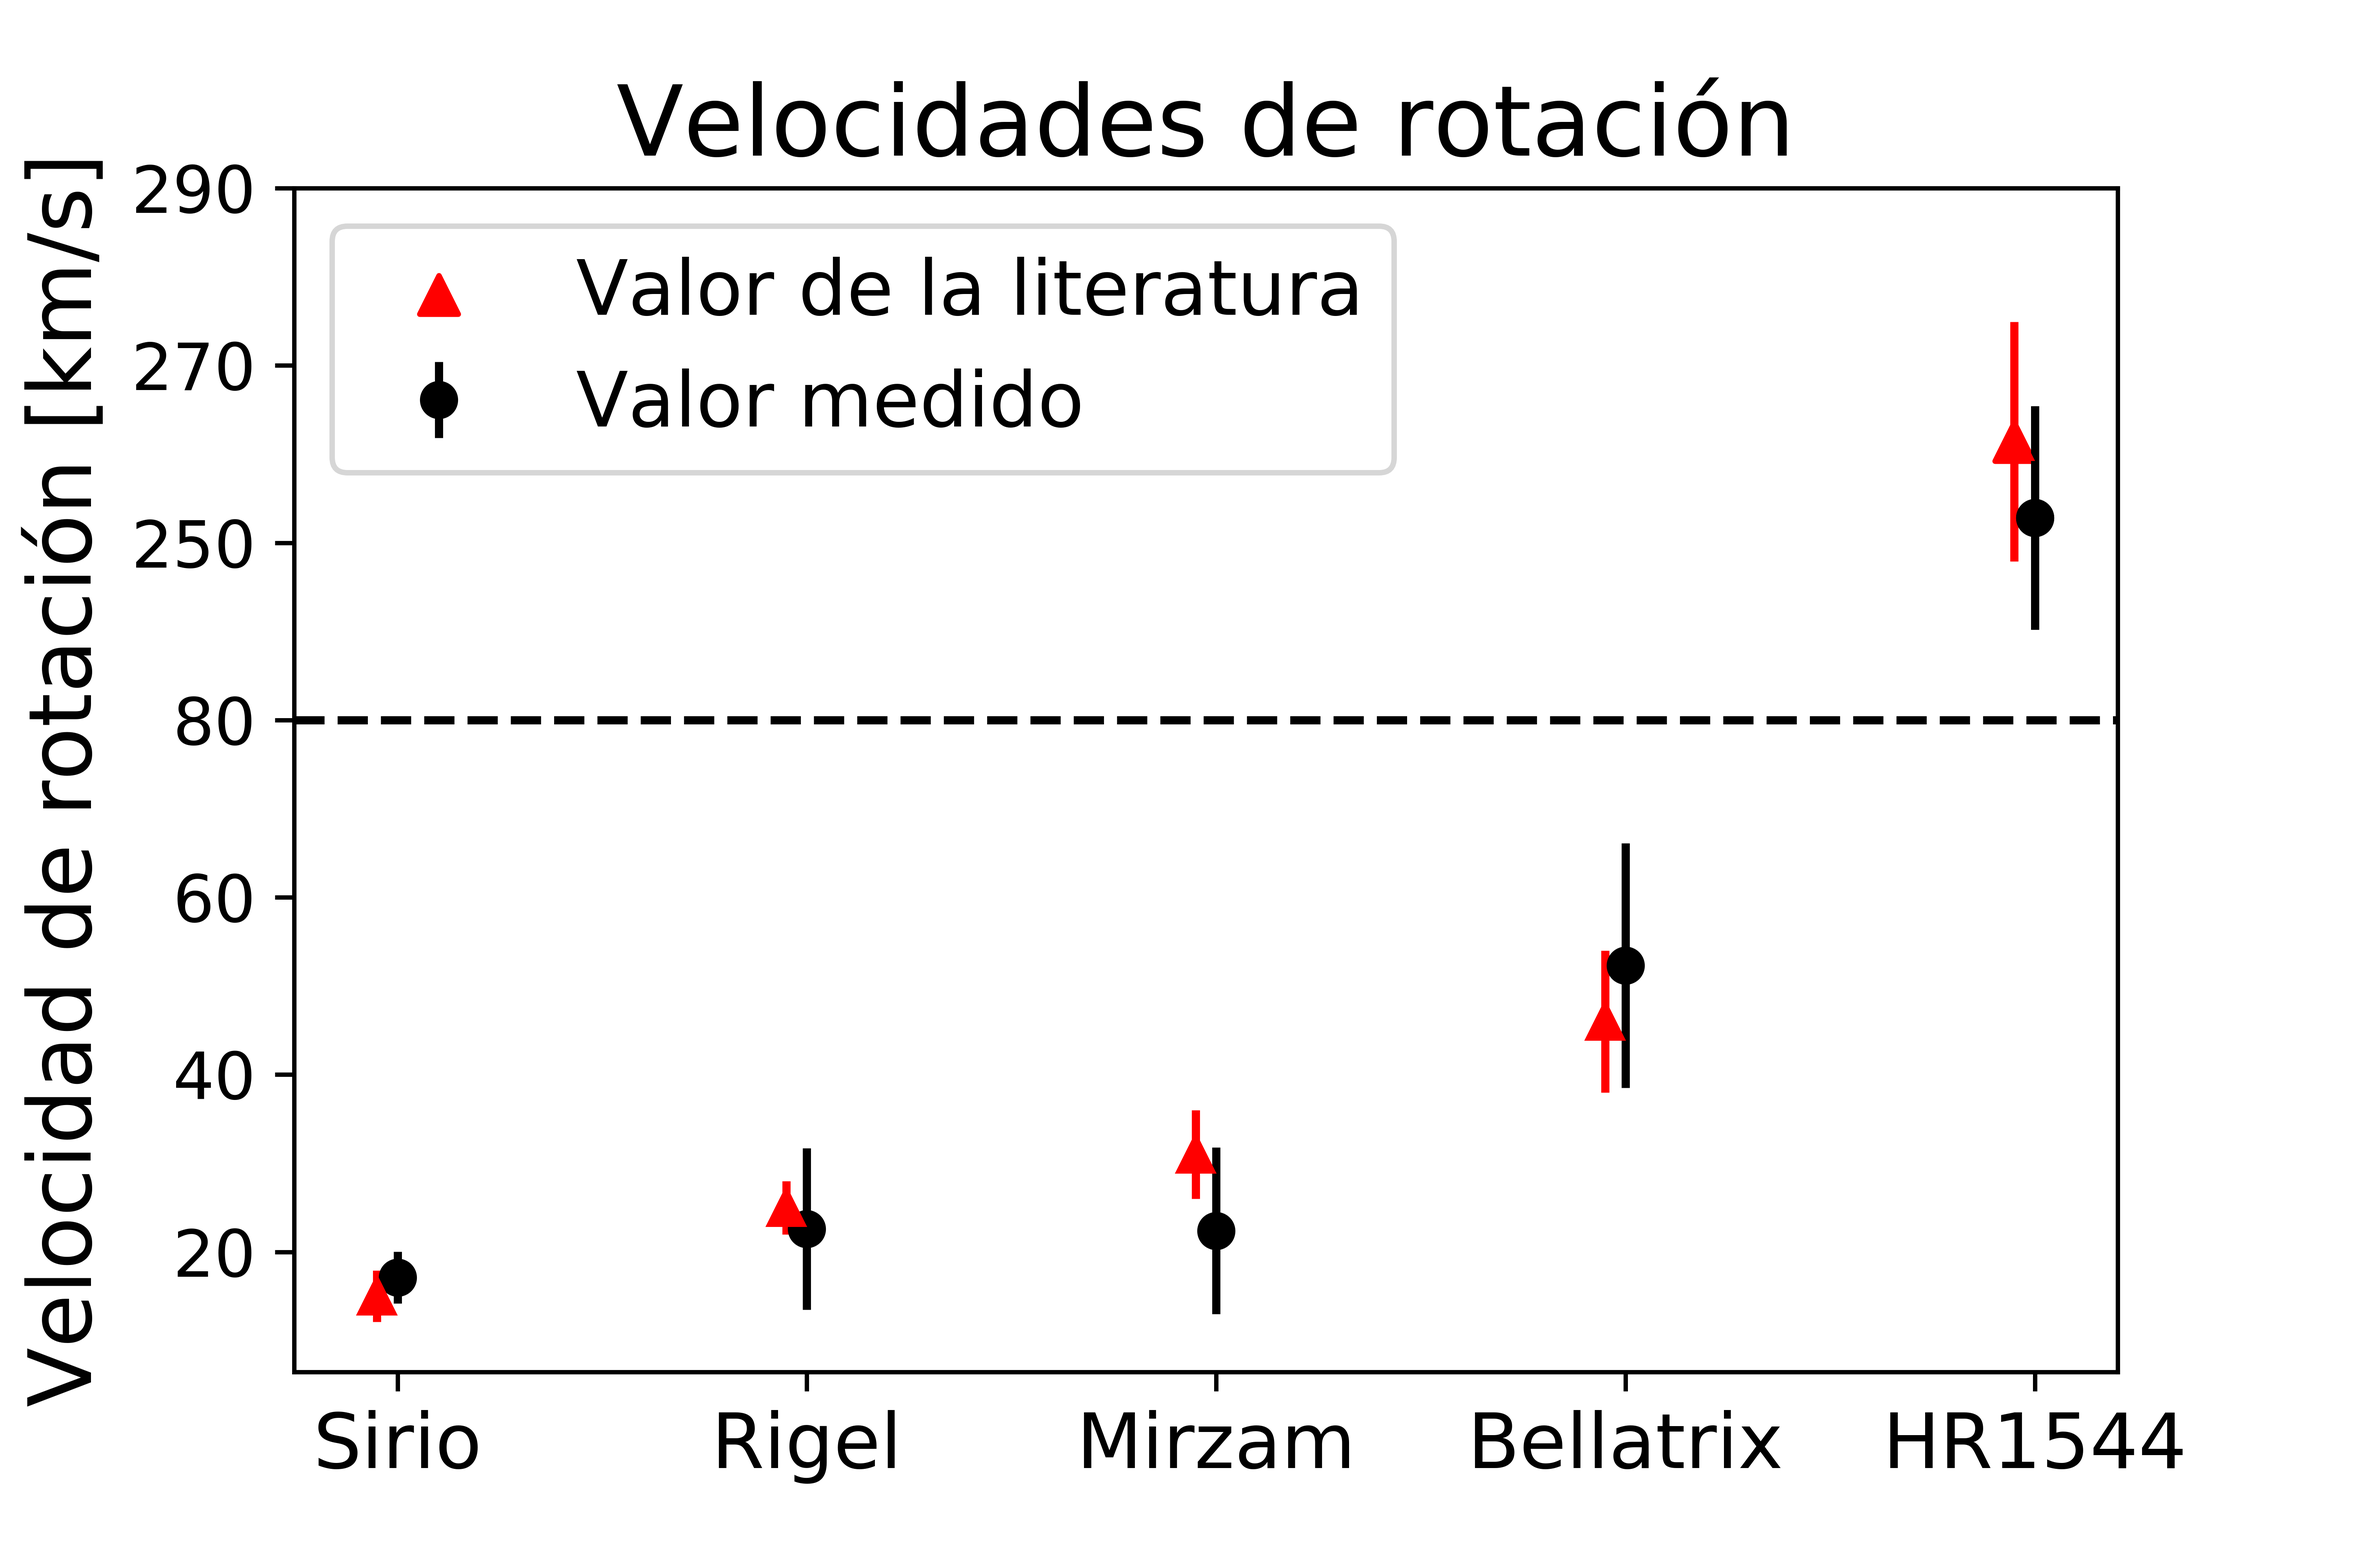
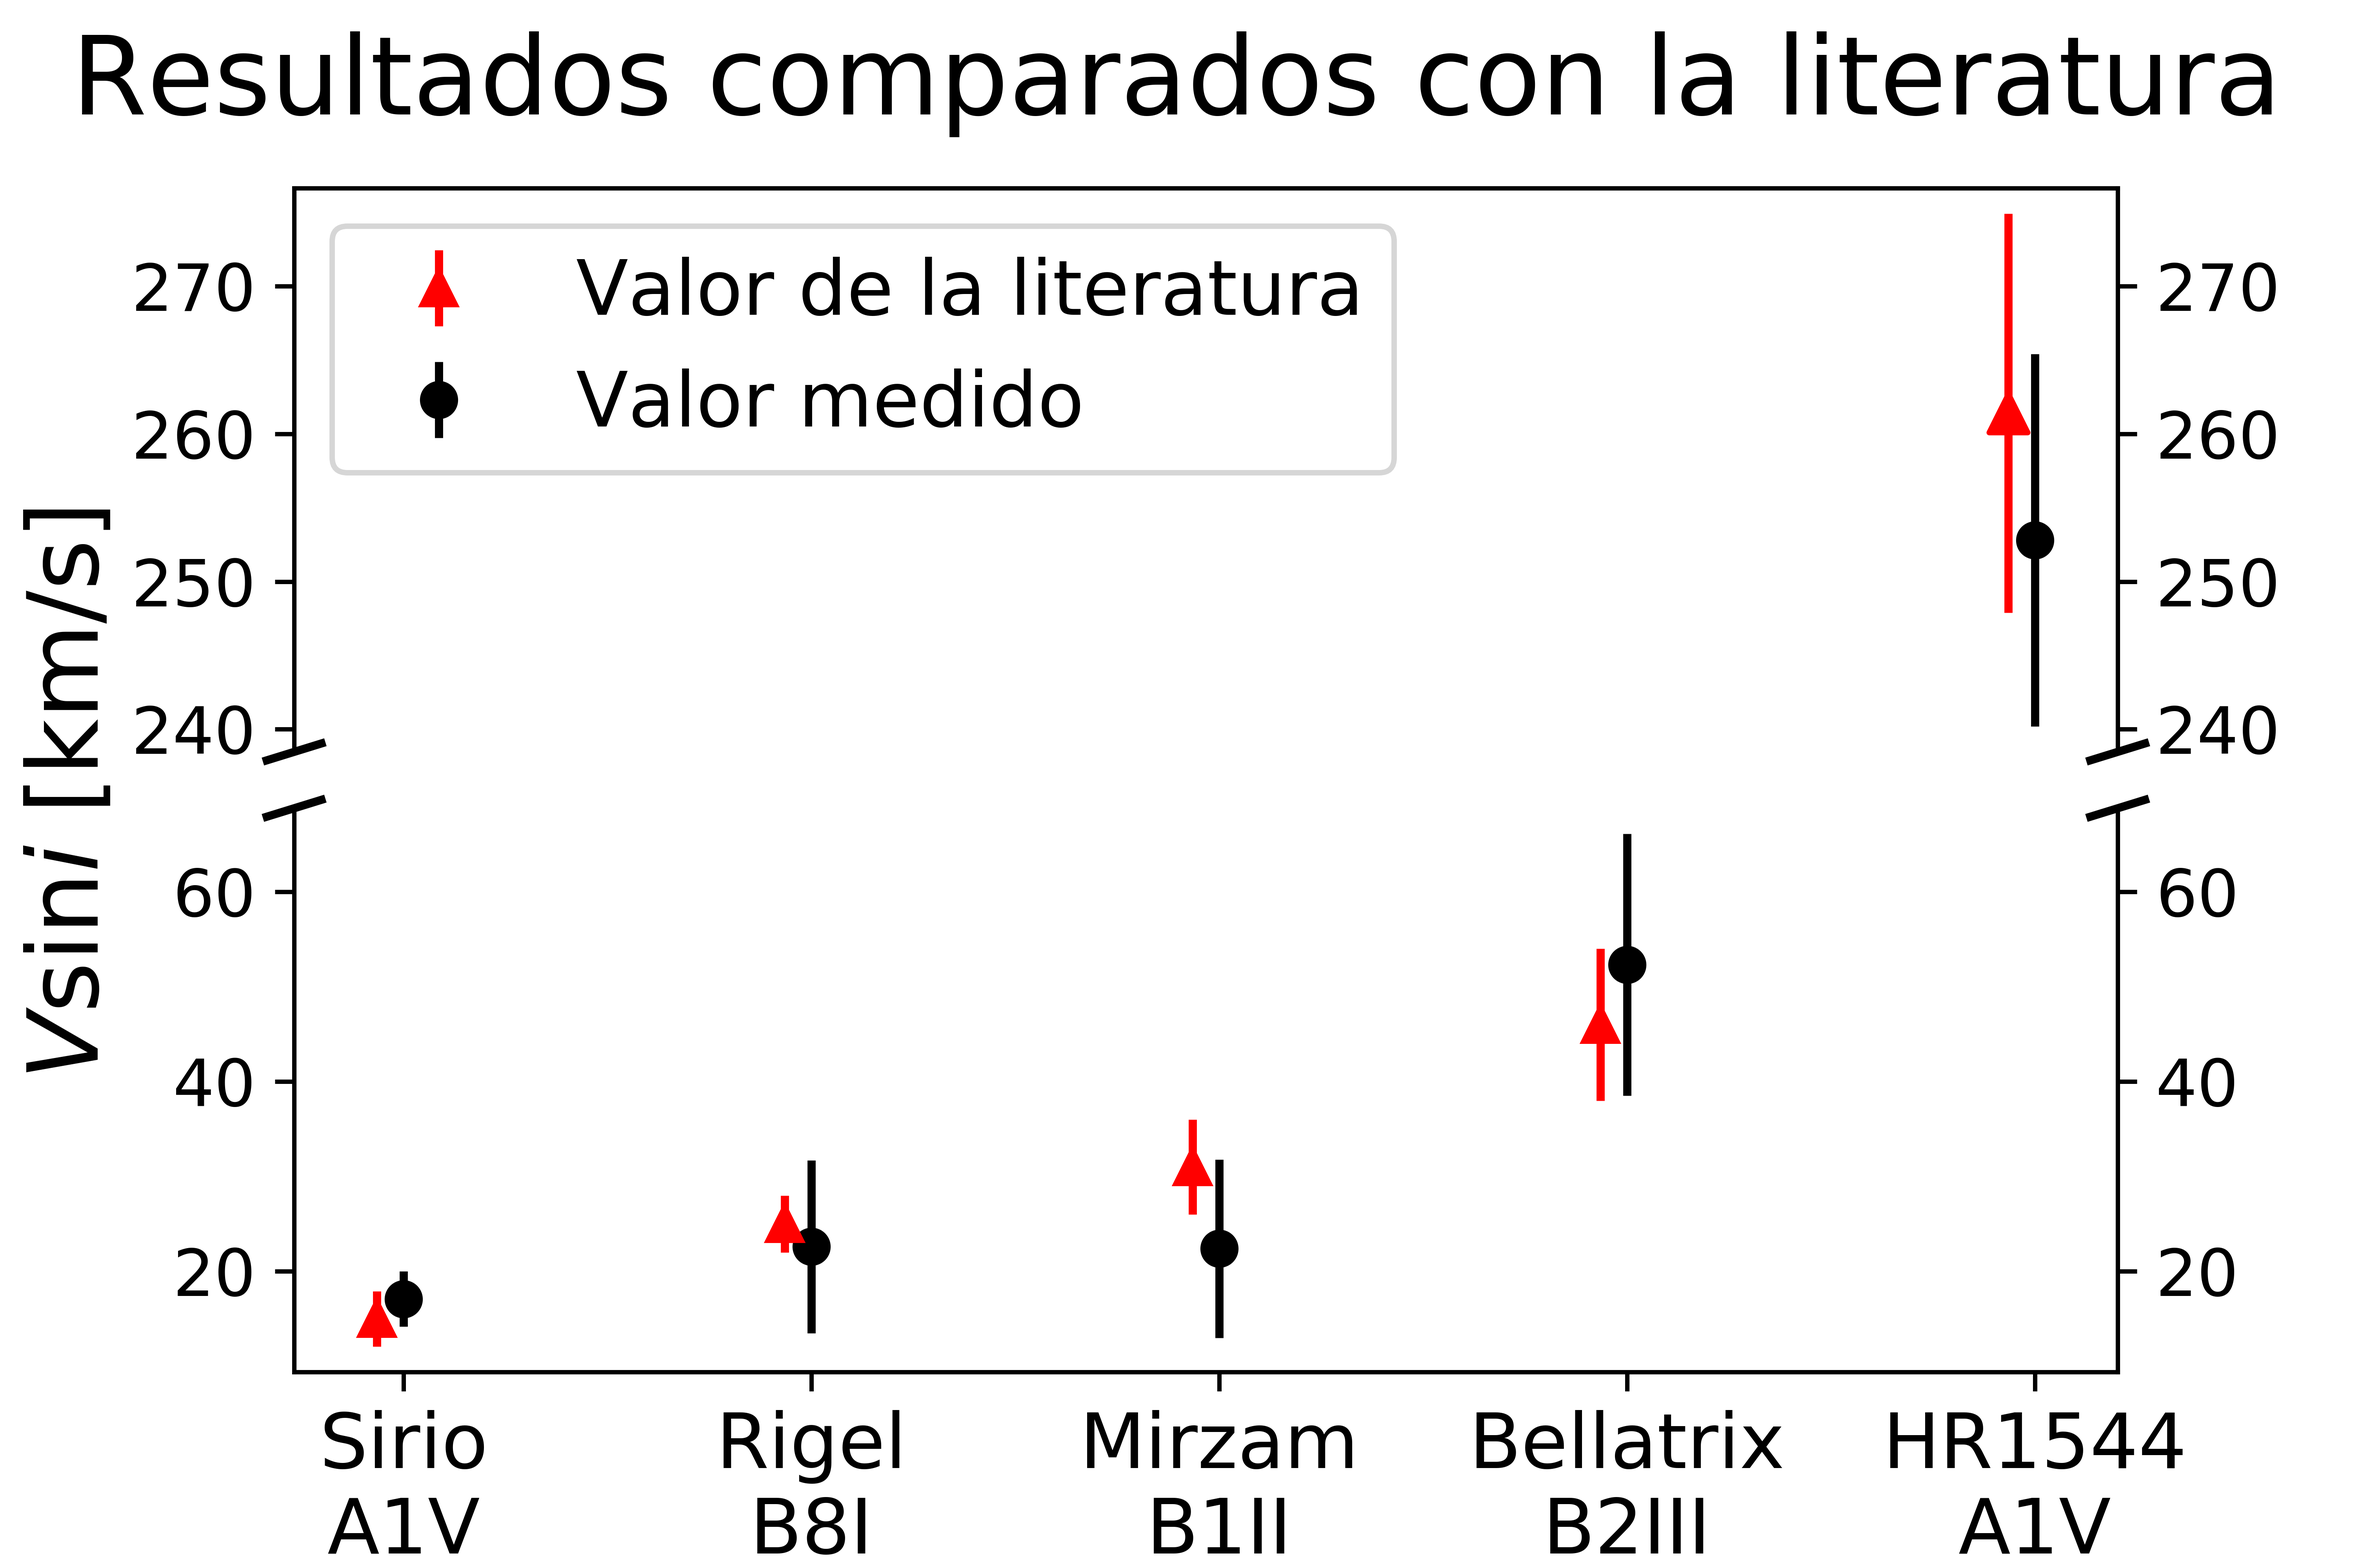
versiones para el poster

diff --git a/LaboratorioAvanzado/Proyecto/analisis_Espectral/metanalisis.py b/LaboratorioAvanzado/Proyecto/analisis_Espectral/metanalisis.py
@@ -42,25 +42,59 @@ plt.plot(x,m*x+b)
 plt.figure()
 xpos = np.arange(len(vReal))
 factor = 150
-vReal[4] -= factor
-vMed[4] -= factor
+#vReal[4] -= factor
+#vMed[4] -= factor
 #sigmaReal[4] /= factor
 #sigmaMed[4] /= factor
-for i, color in zip(xpos,["blue","indigo","forestgreen","teal", "k"]):
-      
-      plt.errorbar([xpos[i]],vMed[i], yerr=[sigmaMed[i]],color = 'k', fmt='o')
+espectral = ['A1V', 'B8I', 'B1II', 'B2III','A1V' ]
+f,(ax,ax2) = plt.subplots(2,1,sharex=True, facecolor='w')
+for i, color in zip(xpos[:-1],["blue","indigo","forestgreen","teal"]):
+            
+      ax2.errorbar([xpos[i]],vMed[i], yerr=[sigmaMed[i]],color = 'k', fmt='o')
 #      plt.scatter([xpos[i]], vMed[i],color = color, label = estrellas[i] + " medido")
 #      plt.scatter([xpos[i]-0.05], vReal[i], marker= '^',color = 'r', s = 50)
-      plt.errorbar([xpos[i]-0.05], vReal[i], color = 'r',yerr=[sigmaReal[i]], fmt='^')
-plt.scatter([xpos[i]-0.05], vReal[i], marker= '^',color = 'r', s = 50, label = 'Valor de la literatura')
-plt.errorbar([xpos[i]],vMed[i], yerr=[sigmaMed[i]],color = color, fmt='o', label = 'Valor medido')
-plt.xticks(xpos,estrellas,fontsize=14)
-plt.ylabel(r"Velocidad de rotación [km/s]", fontsize=16)
-plt.axhline(80,linestyle='--', color = 'black')
-plt.yticks((1+np.arange(7))*20,[20,40,60,80,100+factor,120+factor,140+factor],fontsize=12)
-plt.legend(prop={'size': 14})
-plt.title("Velocidades de rotación", fontsize=18)
-plt.savefig("resultados.png",dpi = 1000)
-#plt.yticks()
+      ax2.errorbar([xpos[i]-0.065], vReal[i], color = 'r',yerr=[sigmaReal[i]], fmt='^')
+#ax.errorbar([xpos[4]],vMed[4], yerr=[sigmaMed[4]],color = 'k', fmt='o')
+#ax.errorbar([xpos[4]-0.05], vReal[4], color = 'r',yerr=[sigmaReal[4]], fmt='^')
+ax.yaxis.set_tick_params(labelsize=12)
+ax2.yaxis.set_tick_params(labelsize=12)
+ax.scatter([xpos[4]-0.065], vReal[4], marker= '^',color = 'r', s = 50)
+ax.errorbar([xpos[4]-0.065],vReal[4], yerr=[sigmaReal[4]],color = 'r', fmt='^', label = 'Valor de la literatura')
+ax.errorbar([xpos[4]],vMed[4], yerr=[sigmaMed[4]],color = 'k', fmt='o', label = 'Valor medido')
+plt.xticks(xpos,estrellas+'\n'+espectral,fontsize=14)
+#ax.yticks(fontsize=14)
+#ax2.yticks(fontsize=14)
+plt.ylabel(r"                   $V \sin{i}$ [km/s]", fontsize=18,labelpad=10)
+
+ax.spines['bottom'].set_visible(False)
+ax2.spines['top'].set_visible(False)
+ax.xaxis.tick_top()
+ax.tick_params(labeltop='off', labelright = True)  # don't put tick labels at the top
+ax2.tick_params(labeltop='off', labelright = True)  # don't put tick labels at the top
+ax.xaxis.set_ticks_position('none') 
+ax2.yaxis.set_ticks_position('both')
+ax.yaxis.set_ticks_position('both')
+#ax2.yaxis.tick_right()
+#ax.yaxis.tick_right()
+#plt.axhline(80,linestyle='--', color = 'black')
+#plt.yticks((1+np.arange(7))*20,[20,40,60,80,100+factor,120+factor,140+factor],fontsize=12)
+ax.legend(prop={'size': 14})
+#ax.title.set_text("Velocidades de rotación")
+f.suptitle("Resultados comparados con la literatura", fontsize=19)
+f.subplots_adjust(hspace=0.1) 
+d = .015  # how big to make the diagonal lines in axes coordinates
+# arguments to pass to plot, just so we don't keep repeating them
+kwargs = dict(transform=ax.transAxes, color='k', clip_on=False)
+ax.plot((-d, +d), (-d, +d), **kwargs)        # top-left diagonal
+ax.plot((1 - d, 1 + d), (-d, +d), **kwargs)  # top-right diagonal
+
+kwargs.update(transform=ax2.transAxes)  # switch to the bottom axes
+ax2.plot((-d, +d), (1 - d, 1 + d), **kwargs)  # bottom-left diagonal
+ax2.plot((1 - d, 1 + d), (1 - d, 1 + d), **kwargs)  # bottom-right diagonals
+
+#ax2.plot((0,1 ), (1.05, 1.05 ), **kwargs)  # bottom-right diagonals
+
+f.savefig("resultados.png",dpi = 1000)
+
 
 

diff --git a/LaboratorioAvanzado/Proyecto/analisis_Espectral/mirzam.py b/LaboratorioAvanzado/Proyecto/analisis_Espectral/mirzam.py
@@ -21,9 +21,9 @@ dpi = 300
 #conv0 = 2/(y1[202]+y1[203])
 element = 'H'
 line = 4341.2 #
-line = 4861 #
+#line = 4861 #
 #line = 6564 #
-lineS = str(line)
+lineS = str(int(line))
 ii = np.where(np.logical_and(lamb<line+5,lamb>line-5))
 iii = np.where(np.logical_and(lamb<line+15,lamb>line-15))
 
@@ -77,16 +77,22 @@ funcionTestFourier = interp1d(freq,lineas,kind='quadratic')
 #plt.xlim(0,1000)
 plt.figure()
 plt.xlabel("Frecuencias [hz]", fontsize=18)
-plt.ylabel("FFT normalizada", fontsize=18)
-plt.title("FFT de H 4861 en "+star, fontsize=18)
+plt.ylabel(r"FFT de H$_{\gamma}$ en "+star, fontsize=20, labelpad=1)
+plt.yticks(fontsize=12)
+plt.xticks(fontsize=12)
+plt.title("Ceros sensibles a la interpolación", fontsize=20)
 #plt.xlim(3500,4500)
 #plt.ylim(-0.025,0.0251)
 plt.xlim(0,0.43)
 
-plt.plot(freq,np.zeros_like(freq))
-plt.plot(freq,lineas.real/np.max(lineas.real),color = 'r')
-plt.scatter(freq,lineas.real/np.max(lineas.real), color = 'orange')
-plt.plot(freqTest,funcionTestFourier(freqTest)/np.max(lineas),color = 'blue')
+
+plt.plot(freq,lineas.real/np.max(lineas.real),color = 'green', label = 'Interpolación Lineal')
+plt.scatter(freq,lineas.real/np.max(lineas.real), color = 'red', label = 'Puntos de la transformada')
+plt.plot(freqTest,funcionTestFourier(freqTest)/np.max(lineas),color = 'blue', label = 'interpolación Cuadrática')
+plt.plot(freq,np.zeros_like(freq), color = 'black')
+plt.legend(prop={'size': 13})
+plt.savefig("fft"+element+" "+lineS+'.png',dpi=dpi,bbox_inches='tight')
+
 
 A = trapz(y=linea,x=lambLinea)
 beta = 2*A/linea[lambLinea==0]/np.pi
@@ -126,13 +132,13 @@ vsini1 = 0.660/(line*ridder(funcionTestFourier,freq[0],freq[2])*10)*c*1e-4 #pare
 def PlanB(w):
     return np.trapz(y=lineas*np.cos(w*lambLinea),x=lambLinea)
 
-plt.figure()
-PlanB(freq)
-planB = np.zeros_like(freq1)
-for i in range(len(freq1)):
-    planB[i] = PlanB(freq1[i])
+#plt.figure()
+#PlanB(freq)
+#planB = np.zeros_like(freq1)
+#for i in range(len(freq1)):
+#    planB[i] = PlanB(freq1[i])
 
-plt.plot(freq,planB)
+#plt.plot(freq,planB)
 
 
 

diff --git a/LaboratorioAvanzado/Proyecto/analisis_Espectral/sirio.py b/LaboratorioAvanzado/Proyecto/analisis_Espectral/sirio.py
@@ -76,8 +76,8 @@ funcionTestFourier = interp1d(freq,lineas,kind='quadratic')
 #plt.xlim(0,1000)
 plt.figure()
 plt.xlabel(r"Frecuencias [ciclos$^{-1}$]", fontsize=18)
-plt.ylabel("FFT normalizada", fontsize=18)
-plt.title("FFT de "+element+" "+lineS+ " en "+star, fontsize=18)
+plt.ylabel(r"FFT de H$_{\beta}$ en "+star, fontsize=20)
+plt.title("Ceros independientes de la interpolación", fontsize=20)
 #plt.xlim(3500,4500)
 #plt.ylim(-0.025,0.0251)
 plt.xlim(0,0.43)
